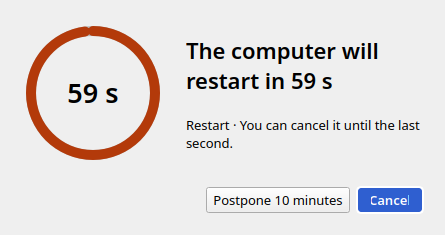
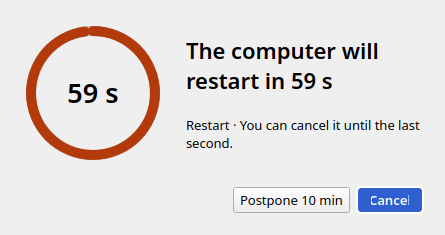
refactor: shared presentation out of the CLI, and no shadowing of `_`
- `cli/format.py` was never about the CLI: five GUI modules and `labels.py`
  already imported it. It moves to `powerclock/format.py`, so the GUI no longer
  reaches into the CLI.
- `start, _ = ...` and `query, _ = ...` shadowed the translation function in
  modules that import it: a crash waiting for the next line that needs `_()`.
- The Spanish screenshots showed the doctor report in English: its texts now go
  through the catalogue, like the real report.

Changed region(s): [[0.4674, 0.834, 0.7888, 0.9234], [0.4674, 0.7745, 0.5258, 0.8043]]

diff --git a/scripts/screenshots.py b/scripts/screenshots.py
@@ -101,32 +101,59 @@ RULES: dict[str, list[dict[str, Any]]] = {
 
 
 def capabilities() -> list[Any]:
-    """What `powerclock doctor` reports on a KDE laptop (the fake backend only says "simulated")."""
+    """What `powerclock doctor` reports on a KDE laptop (the fake backend only says
+    "simulated"). The texts go through the catalogue, so the Spanish screenshots are in
+    Spanish, as the real report is."""
+    from powerclock.i18n import _
     from powerclock.platform.base import Capability
 
+    available, unavailable = _("available"), _("not available on this system")
     rows = [
         ("session", True, "KDE · wayland", None),
-        ("power.shutdown", True, "CanPowerOff: available", None),
-        ("power.suspend", True, "CanSuspend: available", None),
+        ("power.shutdown", True, f"CanPowerOff: {available}", None),
+        ("power.suspend", True, f"CanSuspend: {available}", None),
         (
             "power.hibernate",
             False,
-            "CanHibernate: not available · swap 0.5 GiB, RAM 16 GiB",
-            "needs swap at least as large as RAM and the resume= kernel parameter",
+            f"CanHibernate: {unavailable} · "
+            + _("swap {swap:.1f} GiB, RAM {ram:.1f} GiB, resume= {resume}").format(
+                swap=0.5, ram=16.0, resume=_("not set")
+            ),
+            _("needs swap at least as large as RAM and the resume= kernel parameter"),
         ),
-        ("power.graceful", True, "KDE (org.kde.Shutdown): applications can ask to save", None),
-        ("idle", True, "Wayland ext-idle-notify-v1 · keyboard and mouse only", None),
-        ("notify", True, "Plasma 6 (KDE) · with buttons", None),
-        ("wake.rtc", True, "rtc_cmos 00:00 · clock in UTC", None),
-        ("wake.helper", True, "installed and up to date", None),
-        ("wake.authorized", True, "this process may program the alarm without a password", None),
+        (
+            "power.graceful",
+            True,
+            _("{method}: applications can ask to save").format(method="KDE (org.kde.Shutdown)"),
+            None,
+        ),
+        ("idle", True, "Wayland ext-idle-notify-v1 · " + _("keyboard and mouse only"), None),
+        ("notify", True, _("{server} · with buttons").format(server="Plasma 6 (KDE)"), None),
+        (
+            "wake.rtc",
+            True,
+            _("{name} · clock in {clock}").format(name="rtc_cmos 00:00", clock="UTC"),
+            None,
+        ),
+        ("wake.helper", True, _("installed and up to date"), None),
+        (
+            "wake.authorized",
+            True,
+            _("this process may program the alarm without a password"),
+            None,
+        ),
         (
             "hardware",
             True,
             "Dell Inc. Latitude 5480",
-            "Power on from off: BIOS → Power Management → Auto On Time (usually needs AC)",
+            _("Power on from off: BIOS → Power Management → Auto On Time (usually needs AC)"),
         ),
-        ("power_source", True, "on AC · battery 100 %", None),
+        (
+            "power_source",
+            True,
+            _("{source} · battery {percent} %").format(source=_("on AC"), percent=100),
+            None,
+        ),
     ]
     return [Capability(id=i, supported=s, detail=d, fix_hint=f) for i, s, d, f in rows]
 

diff --git a/src/powerclock/cli/main.py b/src/powerclock/cli/main.py
@@ -27,10 +27,10 @@ from rich.table import Table
 
 from powerclock import __version__, recipes
 from powerclock.cli import client as api
-from powerclock.cli.format import local, relative, span, watch_detail
 from powerclock.config import Paths, read_secrets, write_secret
 from powerclock.doctor import WakeTest, collect, run_wake_test, verdict_message
 from powerclock.engine import wol
+from powerclock.format import local, relative, span, watch_detail
 from powerclock.i18n import N_, _
 from powerclock.install.helper import helper_module
 from powerclock.install.program import commands as program_commands

diff --git a/src/powerclock/platform/linux/backend.py b/src/powerclock/platform/linux/backend.py
@@ -111,7 +111,7 @@ class LinuxPlatform(PlatformBackend):
             case PowerAction.SHUTDOWN | PowerAction.REBOOT:
                 answer = await self.logind.can(action)
                 if answer not in ALLOWED:  # checked before asking the desktop too
-                    query, _ = METHODS[action]
+                    query, _method = METHODS[action]
                     raise NotSupported(f"power.{action}", f"logind answers {answer!r} to {query}")
                 if not (graceful and await self.desktop.graceful(action)):
                     await self.logind.power(action)

diff --git a/src/powerclock/engine/executor.py b/src/powerclock/engine/executor.py
@@ -488,7 +488,7 @@ class Executor:
             return "ok", None
         target = step.level / 100
         if step.fade > timedelta(0):
-            start, _ = await self._backend.volume()
+            start, _muted = await self._backend.volume()
             if start is not None:
                 if mute is False:  # unmute first, or the fade would not be heard
                     await self._backend.set_volume(mute=False)

diff --git a/src/powerclock/gui/diagnostics.py b/src/powerclock/gui/diagnostics.py
@@ -27,9 +27,9 @@ from PySide6.QtWidgets import (
     QWidget,
 )
 
-from powerclock.cli.format import local, relative, span
 from powerclock.config import Paths
 from powerclock.doctor import WakeTest, run_wake_test, verdict_message
+from powerclock.format import local, relative, span
 from powerclock.gui import style
 from powerclock.gui.client import DaemonLink
 from powerclock.gui.energy import EnergyBox

diff --git a/src/powerclock/gui/summary.py b/src/powerclock/gui/summary.py
@@ -5,7 +5,7 @@ from dataclasses import dataclass, field
 from datetime import UTC, datetime, timedelta
 from typing import Any
 
-from powerclock.cli.format import moment, relative, watch_detail
+from powerclock.format import moment, relative, watch_detail
 from powerclock.gui.icons import TrayState
 from powerclock.i18n import _, can_cancel_text
 from powerclock.labels import reason_label

diff --git a/src/powerclock/gui/rules.py b/src/powerclock/gui/rules.py
@@ -18,7 +18,7 @@ from PySide6.QtWidgets import (
     QWidget,
 )
 
-from powerclock.cli.format import relative, watch_detail
+from powerclock.format import relative, watch_detail
 from powerclock.gui import style
 from powerclock.gui.client import DaemonLink
 from powerclock.gui.editor import RuleEditor

diff --git a/src/powerclock/format.py b/src/powerclock/format.py
@@ -1,4 +1,5 @@
-"""How the CLI shows times, durations and rules."""
+"""How times, durations and what a rule is waiting for are shown: shared by the CLI and
+the GUI, which say the same things in the same words."""
 
 from datetime import UTC, datetime
 from typing import Any

diff --git a/src/powerclock/gui/history.py b/src/powerclock/gui/history.py
@@ -17,7 +17,7 @@ from PySide6.QtWidgets import (
     QWidget,
 )
 
-from powerclock.cli.format import local
+from powerclock.format import local
 from powerclock.gui import style
 from powerclock.gui.client import DaemonLink
 from powerclock.gui.energy import SavingsLabel

diff --git a/src/powerclock/gui/countdown.py b/src/powerclock/gui/countdown.py
@@ -17,7 +17,7 @@ from PySide6.QtWidgets import (
     QVBoxLayout,
 )
 
-from powerclock.cli.format import moment
+from powerclock.format import moment
 from powerclock.gui import style
 from powerclock.gui.cards import Ring
 from powerclock.gui.client import DaemonLink

diff --git a/src/powerclock/labels.py b/src/powerclock/labels.py
@@ -7,7 +7,7 @@ import re
 from collections.abc import Callable
 from typing import Any
 
-from powerclock.cli.format import local
+from powerclock.format import local
 from powerclock.i18n import _, power_action_label
 from powerclock.platform.base import PowerAction
 
